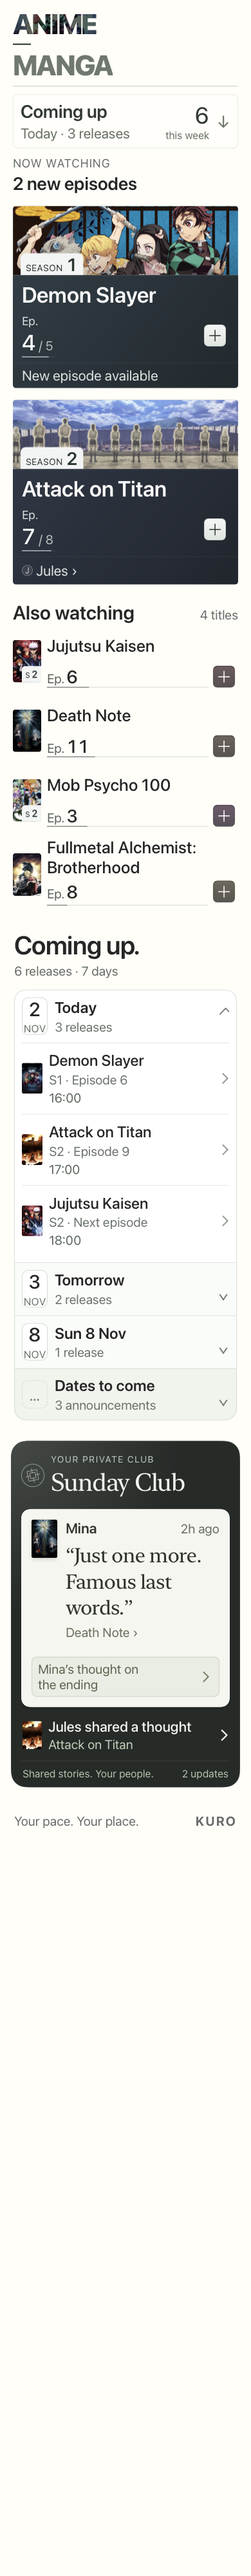
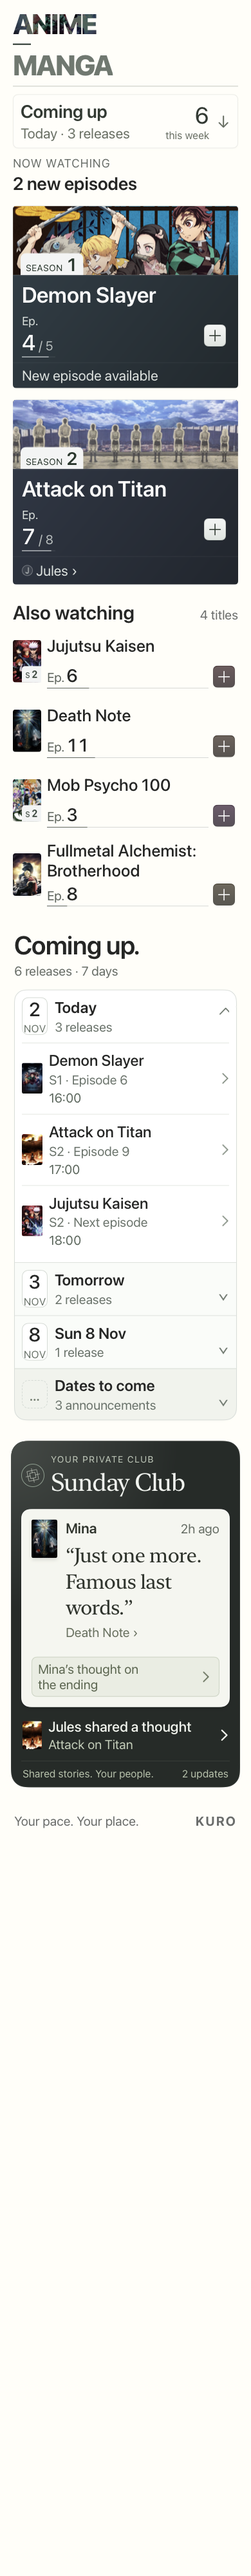
Prototype fidelity Task 10: tile track follows the count at accessibility sizes; re-render Folio keys
- Also watching: at accessibility sizes the 1 pt track sits 2 pt under the count instead of
  being pinned to the row foot (the AX5 count sat on it).
- restyle/folio-* re-rendered for the light key caps and the 40 pt manga leaf face.
- INDEX lists which native folders this pass re-rendered and which it kept.

Claude-Session: https://claude.ai/code/session_01EXnQobKNDuiWFN5zm6WcdH

Changed region(s): [[0.1846, 0.3125, 0.5538, 0.375], [0.7077, 0.3125, 0.7385, 0.3438], [0.2769, 0.25, 0.3077, 0.2812]]

diff --git a/Kuro/Views/Home/HomeAlsoWatching.swift b/Kuro/Views/Home/HomeAlsoWatching.swift
@@ -101,27 +101,45 @@ struct HomeAlsoWatchingTile<Key: View>: View {
     }
 
     private var readoutView: some View {
-        ZStack(alignment: .leading) {
-            HStack(alignment: .lastTextBaseline, spacing: 3) {
-                Text(readout.unit)
-                    .font(.kuroCustom(compact ? 9 : 10, relativeTo: .caption2, maxSize: 20))
-                    .foregroundStyle(HomeInk.tileUnit)
-                    .lineLimit(1)
-                Text(readout.value)
-                    .font(.kuroCustom(compact ? 13 : 14, weight: .medium, relativeTo: .subheadline, maxSize: 28))
-                    .monospacedDigit()
-                    .foregroundStyle(Color.kuroInk)
-                    .lineLimit(1)
-                    .kuroCountRoll(value: readout.value)
+        Group {
+            if dynamicTypeSize.isAccessibilitySize {
+                // Large text: the track follows the count (2 pt under it), so they never meet.
+                VStack(alignment: .leading, spacing: 2) {
+                    count
+                    scrub
+                }
+            } else {
+                ZStack(alignment: .leading) {
+                    count
+                    scrub
+                        .frame(maxHeight: .infinity, alignment: .bottom)
+                        // The key face (34 in the 44 pt row) ends 5 pt above the row's foot: the track too.
+                        .padding(.bottom, 5)
+                }
             }
-            HomeScrub(fraction: readout.fraction, track: HomeInk.tileTrack, trace: HomeInk.tileTrace)
-                .frame(maxHeight: .infinity, alignment: .bottom)
-                // The key face (34 in the 44 pt row) ends 5 pt above the row's foot: the track too.
-                .padding(.bottom, 5)
         }
         .frame(maxWidth: .infinity, minHeight: 44, alignment: .leading)
         .accessibilityElement(children: .ignore)
         .accessibilityLabel(readout.spoken)
+    }
+
+    private var count: some View {
+        HStack(alignment: .lastTextBaseline, spacing: 3) {
+            Text(readout.unit)
+                .font(.kuroCustom(compact ? 9 : 10, relativeTo: .caption2, maxSize: 20))
+                .foregroundStyle(HomeInk.tileUnit)
+                .lineLimit(1)
+            Text(readout.value)
+                .font(.kuroCustom(compact ? 13 : 14, weight: .medium, relativeTo: .subheadline, maxSize: 28))
+                .monospacedDigit()
+                .foregroundStyle(Color.kuroInk)
+                .lineLimit(1)
+                .kuroCountRoll(value: readout.value)
+        }
+    }
+
+    private var scrub: some View {
+        HomeScrub(fraction: readout.fraction, track: HomeInk.tileTrack, trace: HomeInk.tileTrace)
     }
 }
 

diff --git a/docs/prototype-fidelity/FIDELITY_REVIEW.md b/docs/prototype-fidelity/FIDELITY_REVIEW.md
@@ -21,7 +21,7 @@ Each finding is marked **fixed**, **justified** (the difference stays, with its 
 | Club room width / bleed | **fixed** | `HomeFeedInsets.room` = −3 against the page gutter: 17–373 at 390, 13–307 at 320, 17–413 at 430. 32 pt above the room. |
 | Paper feed side padding and card shadow | **fixed** | The calendar section and footer sit 2 pt inside the gutter (`HomeFeedInsets.feed`): 22 at 390 and 430, 18 at 320. The shadow is `0 2 6 −4`, cast by a shape inset 4 pt (`HomeCalendarPalette.cardShadowInset`), so there is no side spread. |
 | Also watching tile at 320 ("Mob Psycho 100" wraps) | **fixed** | The text column is fixed: the prototype's `44px 114px` grid, 89 at ≤ 360. SF sets "Mob Psycho 100" at 88.5 pt, which the browser still fits in 88. The column stays flexible at accessibility sizes. |
-| Also watching vertical composition | **fixed** | The 44 pt title button sits at the top of its 48 pt row. The 44 pt progress row has the count centred, and the 1 pt track sits 5 pt above the row foot, level with the key face's bottom. |
+| Also watching vertical composition | **fixed** | The 44 pt title button sits at the top of its 48 pt row. The 44 pt progress row has the count centred, and the 1 pt track sits 5 pt above the row foot, level with the key face's bottom. At accessibility sizes the track follows the count instead (2 pt under it), so a large count never sits on it. |
 | Club note link "Finished Death Note ›" and activity "Jules started" | **open** | See note B. |
 | Calendar day label "Fri 9 Oct" | **fixed (render locale)** | See note C. |
 | Scrub / track / hairline half-point blur | **justified** | See note D. |
@@ -29,7 +29,7 @@ Each finding is marked **fixed**, **justified** (the difference stays, with its 
 | Light +1 glyph weight | **fixed** | Key caps are a light-weight symbol, matching the prototype's thin 16 × 16 SVG stroke. |
 | Also watching material key glyph | **fixed** | Same light cap. The ink stays white. |
 | Poster radius / shadow and S2 stamp | **fixed** | Radius 4. The shadow `0 3 7 −4` is cast by a 4 pt inset shape behind the poster, so the stamp no longer carries a shadow. The stamp is flush bottom-right, with only its top-left corner rounded (5). |
-| Vertical rhythm, scenes → Also watching | **fixed** | The heading row has its 21 pt line box (SF 15/21), so the 25 / 12 margins measure as in the CSS. The scene stack spacing is 18; the remaining ≤ 1 pt is the cards' shadow. |
+| Vertical rhythm, scenes → Also watching | **fixed** | The heading row has its 21 pt line box (SF 15/21), so the 25 / 12 margins measure as in the CSS. The scene stack spacing is 18; what remains is within about 1 pt (not measured further). |
 | Calendar disclosure mark | **fixed** | Text glyph ⌄ / ⌃, SF 21 light, `#727d73`, placed off-centre as in the prototype. |
 | Day label / chip weights 550 | **justified** | See note E. Row time is already `#58665b`. |
 | Quiet: progress control width | **fixed** | The progress column has a minimum of 112 pt (104 at ≤ 360). The caught-up word wraps inside a 54 pt readout, so the divider stays put. |

diff --git a/docs/prototype-fidelity/native/INDEX.md b/docs/prototype-fidelity/native/INDEX.md
@@ -100,5 +100,8 @@ Differences that stay, and why, are listed per finding in `../FIDELITY_REVIEW.md
   (FIDELITY_REVIEW note B).
 - **New account.** The selected medium word shows the mountain (empty shelf), the picks come from the
   seeded Discover bundle (`HomeNewAccount`'s own loader), and the page sits on the medium's canvas.
-- **Lane harness renders** (`home-manga/home-manga-*`, `home-anime-calendar-club-*`) and the first-run
-  HomeView renders were re-rendered with this pass; the other `firstrun/` and `detail/` renders were not.
+- **Re-rendered in this pass (en_GB):** every `home-anime/` and `home-manga/` render (German ones under
+  de_DE), the first-run HomeView renders, and `restyle/folio-*` (the key caps and the 40 pt manga
+  leaf face changed). Not re-rendered: the other `firstrun/` and `restyle/` renders and all of
+  `detail/` (they were made under the default US region before this pass; the detail pages draw
+  no `KuroAdvanceKey`, and a GB run changed only date formats there, so they were kept).
